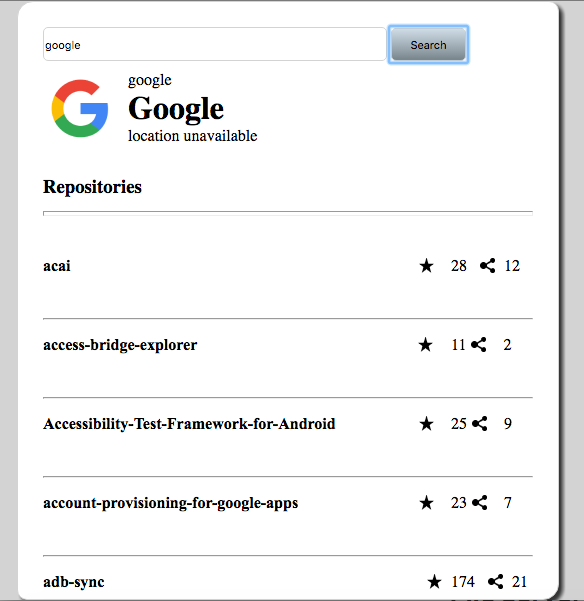
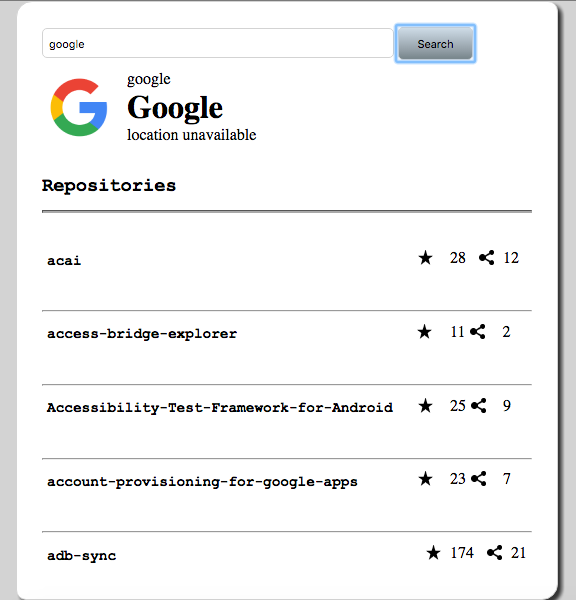
Added toggleText function

diff --git a/public/js/ajax.js b/public/js/ajax.js
@@ -8,9 +8,10 @@ function xhttpResponseHead() {
     var resp = xhttp.responseText;
     Layout.displayHeader(resp);
   } else if (xhttp.readyState <= 3) {
-     // cool spinner or effect can be added here
+    Layout.toggleText("Loading......");
   } else {
     Layout.displayError();
+    Layout.toggleText("");
   }
 };
 
@@ -18,14 +19,17 @@ function xhttpResponseList() {
   if (xhttpList.status === 200 && xhttpList.readyState === 4) {
     var resp = xhttpList.responseText;
     Layout.displayList(resp);
+    Layout.toggleText("");
+  } else if (xhttp.readyState <= 3) {
+    
   } else {
-    //..
   }
 };
 
 function searchRequest(username) {
   var username = username.value;
   var url = ('https://api.github.com/users/' + username)
+  Layout.toggleText("Loading...");
   
   xhttp.open('GET', url, true);
   xhttp.onreadystatechange = xhttpResponseHead;

diff --git a/spec/ajaxRequestSpec.js b/spec/ajaxRequestSpec.js
@@ -21,6 +21,11 @@ describe("Function: searchRequest", function() {
     expect(xhttp.onreadystatechange).toEqual(xhttpResponseHead);
   })
   
+  it('Changes the value of input_text to display loading...', function () {
+    expect(document.getElementById('input_text').value).toEqual("Loading...");
+    //it never gets reset because the Ajax request is stubbed and readyState 4 is never reached.
+  })
+  
   it('Sends the XMLHttpRequest', function () {
     expect(xhttp.send()).toEqual("SENT");
   })

diff --git a/public/js/layout.js b/public/js/layout.js
@@ -2,6 +2,11 @@
 
 class Layout {
   
+  static toggleText(value) {
+    var text = document.getElementById('input_text');
+    text.value = value;
+  }
+  
   static displayError() {
     var userInfo = document.getElementById('user_info'), userError;
     

diff --git a/SpecRunner.html b/SpecRunner.html
@@ -25,6 +25,7 @@
   </head>
   
   <body>
+    <input id="input_text" type="text">
     <div id="data_container">
       <div id="user_info">
       </div>

diff --git a/public/css/styles.css b/public/css/styles.css
@@ -109,7 +109,7 @@ body {
 #input_text {
   border: solid thin lightgray;
   border-radius: 5px;
-  width: 340px;
+  width: 352px;
   height: 30px;
 }
 

diff --git a/README.md b/README.md
@@ -21,7 +21,7 @@ We will only evaluate the client side code and the criteria will be based mainly
 1. Clone the repository
 2. run `bundle install` (To install rack)
 3. run `rackup`
-4. Open the browser with http://localhost:9292/
+4. Point the browser at http://localhost:9292/
 
 
 ### Unit Tests
@@ -32,7 +32,7 @@ We will only evaluate the client side code and the criteria will be based mainly
 ### Notes 
 
 1. I used ES6 syntactic sugar for class declarations
-1. I swapped the "bio" for "location" in the main User info panel many users leave it blank. 
+1. I swapped the "bio" for "location" in the main User info panel, as many users leave it blank. 
 
 ## SCREENSHOTS
 
